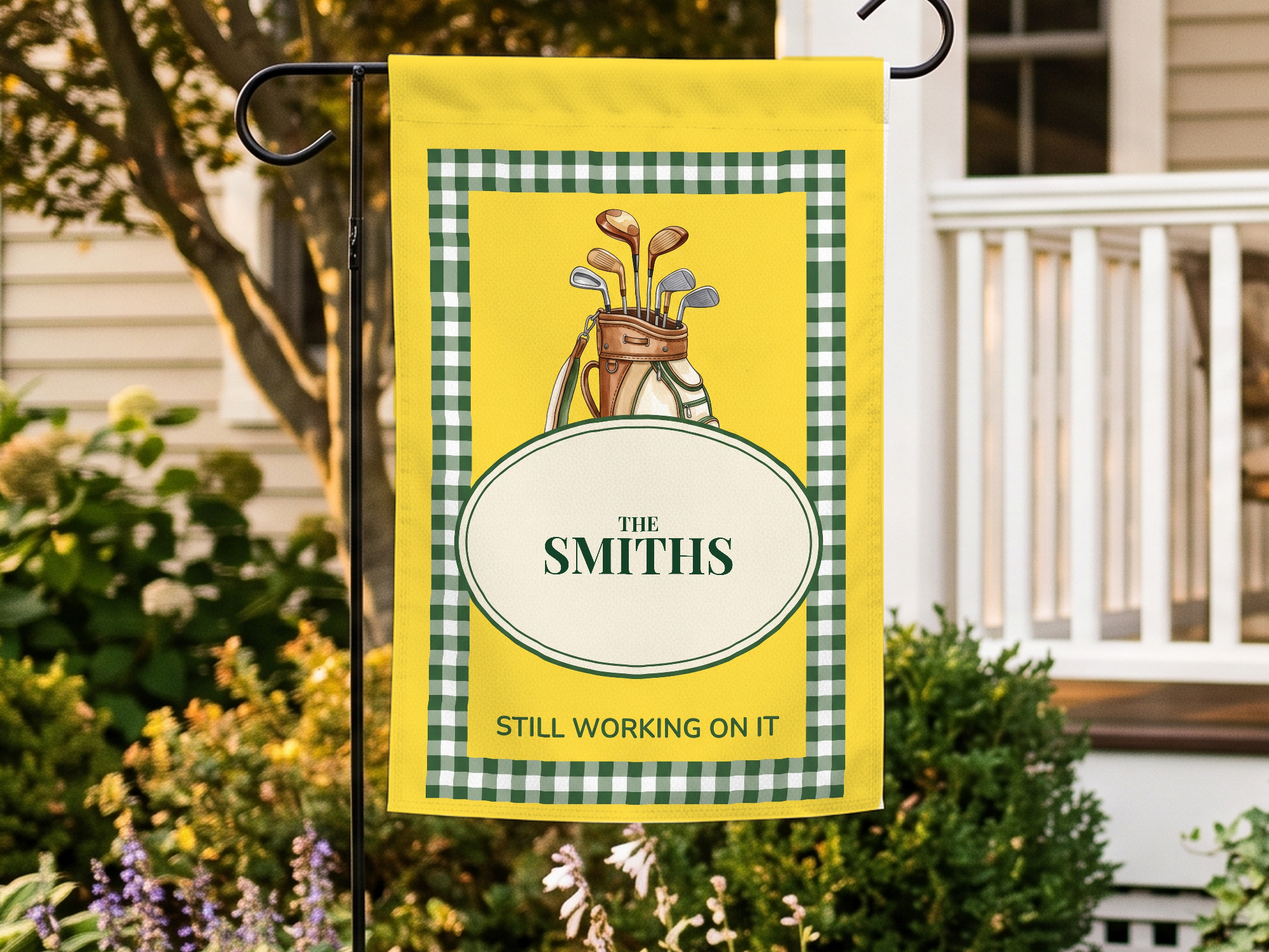
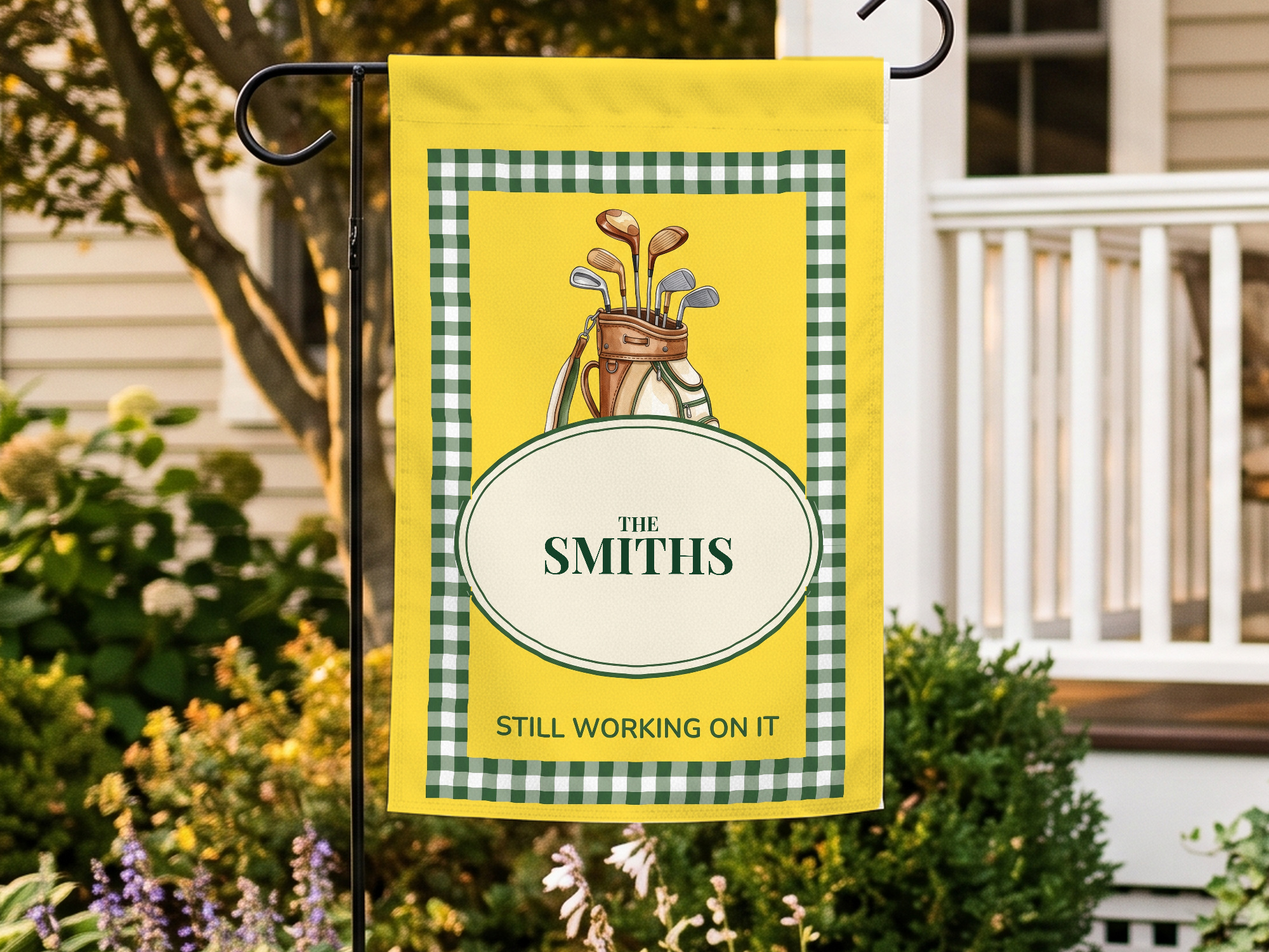
garden_flag: R01のギンガム柄の崩れを補修（本人指摘）
「上端から5分の1くらいで柄が崩れている」という指摘を実測で確認した。

崩れの内容（入稿3900x5700座標・左右の帯で同一）
  ・y 1605〜1831 の縞が高さ226px。他は97〜110pxで、ここだけ2.1倍
  ・周期が上側198px／下側213pxと違い、縞の位相も1本ずれていた

直し方
  枠が3色の平坦な塗り（セル内の標準偏差0.8〜1.9）であることを実測し、
    画素(x,y) = P_L(x) + t(y)*(P_D(x) - P_L(x))
  と分解。行の濃さ t(y) だけを一定周期で作り直した。
  列の構造と黄色地との境目のぼかしは原画のまま残る。

  上バー(y812-1110)と下バー(y5123-5427)は非改変。両端が縞の境目なので角は崩れない。
  補修範囲 y1110-5123 を39行×102.90pxに再構成（上バー99px・下バー106pxの中間）。

  名前オーバルは枠に重なっているため、形を推定せず実測で分離した。
  オーバルが届かない列で原画の t_old(y) を測り、それで再構成した枠との差から
  マスクを作成。左帯642行・右帯645行が保護され、左右でほぼ一致した。

検算
  縞の高さのばらつき ±115% → ±6%、異常な縞なし。
  帯の外・補修範囲の外で変化した画素はいずれも0。

R01の名入れ3種・モックアップ3枚・出品画像7枚を作り直した。

あわせて5案すべての枠を調査し、R09のタータンにも同種の崩れを確認した
（上バーは242/520の規則正しい繰り返しだが、縦方向は738/762の欠落がある）。
対応方針は docs/23 第5節に3案を整理。本人の判断待ち。

Claude-Session: https://claude.ai/code/session_017qrD34xpyvn533LRq15xnw

Changed region(s): [[0.62, 0.2453, 0.682, 0.736], [0.341, 0.2147, 0.372, 0.7667]]

diff --git a/garden_flag/tools/mockup/fix_r01.py b/garden_flag/tools/mockup/fix_r01.py
@@ -1,0 +1,83 @@
+# -*- coding: utf-8 -*-
+"""R01 のギンガム枠の横縞を作り直す。
+
+実測した崩れ（upload_r/_R01_before.png）:
+  ・y 1605〜1831 に高さ226pxの濃い縞が1本（他は97〜108px、約2.1倍）
+  ・上側の周期198px / 下側の周期213px。縞の位相も1本ずれている
+
+考え方:
+  枠は3色の平坦な塗り（セル内の標準偏差 0.8〜1.9）なので
+      画素(x,y) = P_L(x) + t(y)·( P_D(x) − P_L(x) )
+  と分解できる。P_D/P_L は濃い行・薄い行の横断面（実測）、t(y) は行の濃さ。
+  t(y) だけを一定周期に作り直せば、列の構造も黄色地との境目のぼかしも原画のまま残る。
+
+  名前用オーバルは枠に重なっている。形を推定せず、
+  「原画」と「原画自身の t_old(y) で再構成した枠」の差からマスクを作って保護する。
+  t_old(y) は、オーバルが絶対に届かない列 x 430〜520（実測: オーバルの左端は最小594）で測る。
+
+  上バー(y 812-1110)と下バー(y 5123-5427)は触らない。両端が縞の境目なので角はつながる。
+"""
+from PIL import Image
+import numpy as np
+from scipy import ndimage
+
+SRC="upload_r/_R01_before.png"
+DST="upload_r/R01_upload_3900x5700.png"
+# (帯の範囲, t(y)を測る列, オーバルが入ってくる向き)
+BANDS=[((415,728),(430,520),"right"), ((3172,3482),(3380,3465),"left")]
+Y0,Y1 = 1110, 5123
+N_ROWS = 39                 # 薄で始まり薄で終わる奇数（y=5123 から濃が始まるため）
+REF_D  = (2998,3086)
+REF_L  = (3106,3191)
+EDGE   = 3.0
+
+def tone_wave(y, y0, pitch, edge):
+    f=((y-y0)/pitch)%2.0; e=edge/pitch
+    return np.clip(np.clip((f-1.0)/e,0,1)-np.clip((f-2.0+e)/e,0,1),0,1)
+
+def main():
+    src=np.asarray(Image.open(SRC).convert("RGB")).astype(np.float32)
+    out=src.copy()
+    pitch=(Y1-Y0)/N_ROWS
+    print(f"補修 y {Y0}〜{Y1} ({Y1-Y0}px) → {N_ROWS}行 × {pitch:.2f}px")
+    yy=np.arange(Y0,Y1,dtype=np.float32)
+    t_new=tone_wave(yy,Y0,pitch,EDGE).astype(np.float32)
+
+    for (x0,x1),(px0,px1),side in BANDS:
+        PD=src[REF_D[0]:REF_D[1], x0:x1].mean(axis=0)
+        PL=src[REF_L[0]:REF_L[1], x0:x1].mean(axis=0)
+        lumD=float(PD[px0-x0:px1-x0].mean()); lumL=float(PL[px0-x0:px1-x0].mean())
+        # 原画の行の濃さ（オーバルの届かない列で実測）
+        t_old=np.clip((src[Y0:Y1,px0:px1].mean(axis=(1,2))-lumL)/(lumD-lumL),0,1).astype(np.float32)
+
+        G_old=PL[None,:,:]+t_old[:,None,None]*(PD-PL)[None,:,:]
+        G_new=PL[None,:,:]+t_new[:,None,None]*(PD-PL)[None,:,:]
+        dif=np.abs(src[Y0:Y1,x0:x1]-G_old).max(axis=2)
+        raw=dif>20
+        raw[:, :6]=False; raw[:, -6:]=False        # 帯と黄色地の境目の微差は拾わない
+        # 20px以上続く塊がある行＝オーバルが重なっている行
+        solid=ndimage.binary_opening(dif>25, np.ones((1,21)))
+        rows=solid.any(1)
+        idx=np.arange(x1-x0)[None,:]
+        MARGIN=4                                    # 輪郭のぼかし分だけ外へ広げる
+        if side=="right":
+            first=np.where(raw.any(1), np.argmax(raw,1)-MARGIN, x1-x0)
+            mask=(idx>=first[:,None]) & rows[:,None]
+        else:
+            last=np.where(raw.any(1), (x1-x0-1)-np.argmax(raw[:,::-1],1)+MARGIN, -1)
+            mask=(idx<=last[:,None]) & rows[:,None]
+        keep=ndimage.gaussian_filter(mask.astype(np.float32),2.0)
+        keep=np.clip(keep*1.8,0,1)[:,:,None]
+
+        seam=np.ones((Y1-Y0,1,1),np.float32); k=8
+        seam[:k,0,0]=np.linspace(0,1,k); seam[-k:,0,0]=np.linspace(1,0,k)
+        w=seam*(1.0-keep)
+        old=src[Y0:Y1,x0:x1]
+        out[Y0:Y1,x0:x1]=old*(1-w)+G_new*w
+        rows=int((mask.any(1)).sum())
+        print(f"  帯 x{x0}-{x1}: オーバル等を保護した行 {rows}行 "
+              f"(y {Y0+int(np.argmax(mask.any(1)))}〜{Y0+len(mask)-1-int(np.argmax(mask.any(1)[::-1]))})")
+    Image.fromarray(np.clip(out,0,255).astype(np.uint8)).save(DST, optimize=True)
+    print("保存:", DST)
+
+if __name__=="__main__": main()

diff --git a/garden_flag/tools/mockup/redo_r01.py b/garden_flag/tools/mockup/redo_r01.py
@@ -1,0 +1,30 @@
+# -*- coding: utf-8 -*-
+"""補修後の R01 から 名入れ3種 → モックアップ3枚 → 出品画像7枚 を作り直す"""
+import importlib, sys
+sys.argv=["x","SMITHS"]
+import make_name_flag_r as M
+for sur in ("SMITHS","MILLERS","ANDERSONS"):
+    a,b=M.render("R01",sur); print(f"  名入れ R01 {sur}: 名字{a}px THE{b}px", flush=True)
+from composite import composite
+import numpy as np
+OUT_W,OUT_H,FLAG,ANCH=2000,1500,0.80,0.46
+def fh(mp):
+    m=np.load(mp); iy=np.arange(m.shape[0]); cols=np.where(m.any(0))[0]
+    return float(np.median([iy[m[:,x]].max()-iy[m[:,x]].min() for x in cols]))
+for bg in ("background01","background02","background03"):
+    mp=f"mask_{bg}.npy"
+    composite(f"zin/{bg}.jpeg","named_r/R01_SMITHS_3900x5700.png",mp,
+              f"mock/R01_{bg[-2:]}.jpg", scale=OUT_H*FLAG/fh(mp), crop=(OUT_W,OUT_H,ANCH), verbose=False)
+    print(f"  モックアップ R01 x {bg}", flush=True)
+import listing_img as L
+d="listing/R01_still-working-on-it"
+import shutil, os
+os.makedirs(d, exist_ok=True)
+shutil.copy("mock/R01_03.jpg", f"{d}/1_main.jpg")
+L.img_personalize("R01",         f"{d}/2_personalize.jpg")
+shutil.copy("mock/R01_01.jpg",   f"{d}/3_scene.jpg")
+L.img_closeup("mock/R01_03.jpg", f"{d}/4_closeup.jpg","SOFT, FADE-RESISTANT FABRIC")
+L.img_size("R01",                f"{d}/5_size.jpg")
+L.img_double("R01",              f"{d}/6_double_sided.jpg")
+L.img_notice("R01",              f"{d}/7_flag_only.jpg")
+print("  出品画像7枚 完了", flush=True)

diff --git a/garden_flag/docs/23_R01の格子柄の補修.md b/garden_flag/docs/23_R01の格子柄の補修.md
@@ -1,0 +1,171 @@
+# 23. R01 の格子柄の補修（2026-09-23）
+
+本人の指摘：**「R01のチェック柄が、上端から5分の1くらいのところで崩れている」**
+
+実測したところ、指摘どおり崩れていた。**5件目の的中。**
+
+---
+
+## 1. 何が壊れていたか
+
+左右のギンガム帯の**横縞の高さ**を全区間測った（入稿データ 3900×5700 座標）。
+
+| 位置 | 縞の高さ |
+|---|---|
+| y 813〜1605（上側） | 97〜101px（周期 197〜199px） |
+| **y 1605〜1831** | **226px** ← 他の**2.1倍** |
+| y 1932〜5427（下側） | 106〜110px（周期 209〜215px） |
+
+崩れは3つある。
+
+1. **縞が1本、高さ226pxある。** 他は97〜110px。ここだけ2.1倍
+2. **周期が上下で違う。** 上が198px、下が213px（7.6%の差）
+3. **位相が1本ずれている。** 上の縞列をそのまま延長しても、下の縞列と合わない
+
+左帯と右帯で**まったく同じ位置**に出ていた（y 1605〜1831）。
+Gemini が生成した時点で入っていた欠陥で、こちらの加工が原因ではない。
+
+上端からの位置は、枠の上端(813)から数えて **17.2%**。本人の「5分の1くらい」と一致する。
+
+---
+
+## 2. どう直したか
+
+### 枠の構造を分解した
+
+枠は**3色の平坦な塗り**だった（セル内部の標準偏差 0.8〜1.9 = ほぼ単色）。
+
+| 部分 | 色 |
+|---|---|
+| 濃い列 × 濃い行 | (59, 98, 60) |
+| 濃い列 × 薄い行 ／ 薄い列 × 濃い行 | (157, 176, 151) |
+| 薄い列 × 薄い行 | (254, 254, 254) |
+
+つまり枠は次の式で書ける。
+
+```
+画素(x, y) = P_L(x) + t(y) × ( P_D(x) − P_L(x) )
+
+  P_D(x) : 濃い行の横断面（実測：y 2998〜3086 の平均）
+  P_L(x) : 薄い行の横断面（実測：y 3106〜3191 の平均）
+  t(y)   : その行の濃さ 0〜1
+```
+
+**t(y) だけを一定周期で作り直せば、柄は直り、
+列の構造も黄色地との境目のぼかしも原画のまま残る。**
+
+### 作り直す範囲と周期
+
+上バー(y 812〜1110)と下バー(y 5123〜5427)は**触らない**。
+両端がちょうど縞の境目なので、**角のつながりが崩れない**。
+
+作り直すのは **y 1110〜5123（4013px）**。
+
+- 上バーの最後が「濃」で終わるので、ここは**薄で始まる**必要がある
+- y 5123 から下バーの「濃」が始まるので、ここは**薄で終わる**必要がある
+- → 縞の本数は**奇数**。4013 ÷ 39本 = **1本あたり 102.90px**
+
+39本を選んだ理由：上バーの周期は99px、下バーは約106px。
+**102.9px はその中間**で、前後との段差が最も小さい。
+
+行の境目のぼかしは、原画の実測値（10%→90% が **3px**）に合わせた。
+
+### 名前用オーバルの保護
+
+オーバルは**枠に重なっている**（外リングの左端が x=597、帯の範囲は x 425〜716）。
+そのまま作り直すとオーバルの縁を消してしまう。
+
+形を推定せず、**実測で分離した**。
+
+1. オーバルが絶対に届かない列（x 430〜520。オーバルの左端は最小594）で、原画の t_old(y) を測る
+2. その t_old で「原画自身の枠」を再構成する
+3. 原画とその再構成の**差が大きいところ＝オーバル**
+4. 20px以上続く塊がある行だけをオーバルの行とみなす（境目の微差を拾わないため）
+5. その行では、オーバル側の端まで原画を残す
+
+結果、左帯 642行・右帯 645行（y 3296〜3975）が保護された。**左右でほぼ一致**しており、
+オーバルの重なり範囲と合っている。
+
+---
+
+## 3. 直った証拠
+
+| | 補修前 | 補修後 |
+|---|---|---|
+| 縞の本数（左帯） | 43本 | **45本** |
+| 縞の高さ 中央値 | 105px | 103px |
+| 縞の高さ 最小〜最大 | **97〜226px** | **97〜109px** |
+| **ばらつき** | **±115%** | **±6%** |
+| 異常な縞 | y1605 に226px | **なし** |
+
+右帯も同じ数値。残る±6%は「上バー99px / 中央102.9px / 下バー106px」の差で、
+**原画がもともと持っている揺れの範囲内**。
+
+変更が入った画素の範囲も確認した。
+
+- 帯の外（x 415-728 / 3172-3482 以外）で変わった画素：**0**
+- 補修範囲の外（y 1110-5123 以外）で変わった画素：**0**
+
+ゴルフバッグ・オーバル・文字・上下バーには一切手が入っていない。
+
+---
+
+## 4. 作り直したもの
+
+補修した入稿データから、下流をすべて作り直した。
+
+- 名入れ3種（SMITHS / MILLERS / ANDERSONS）
+- モックアップ3枚（`mockups/R01_*`）
+- 出品画像7枚（`listing/R01_still-working-on-it/`）
+
+補修スクリプトは `tools/mockup/fix_r01.py`。補修前の原画は保存していない
+（`upload_r/` は作業用スクラッチのため）。再現が必要なら Gemini の出力から再度実行する。
+
+---
+
+## 5. R09 にも同種の崩れがある（要判断）
+
+R01 を直すついでに5案すべての枠を調べた。
+
+| 案 | 枠 | 判定 |
+|---|---|---|
+| R01 | ギンガム | **崩れていた → 補修済み** |
+| R02 | 無地の緑 | 繰り返し柄なし。問題なし |
+| R05 | 四隅の花 | 繰り返し柄なし。問題なし |
+| **R09** | **タータン** | **崩れている（下記）** |
+| R11 | 細い金の罫線 | 繰り返し柄なし。問題なし |
+
+### R09 の実測
+
+**上バーの横方向**（＝正しいセット）
+
+```
+242 / 520 / 243 / 519 / 240 / 522 / 239   ← 242と520の規則正しい繰り返し
+```
+
+**左右の帯の縦方向**
+
+```
+211 / 496 / 186 / 252 / 408 / 240 / 539 / 207 / 738 / 762 / 207
+                                             ^^^^^^^^^^^
+                              242や520ではない。緑ブロックが2つ欠落している
+```
+
+**下バーの横方向**
+
+```
+512 / 173 / 410 / 500 / 425 / 176 / 470   ← 上バーの 242/520 と合っていない
+```
+
+左帯と右帯は互いに一致している（952/952, 1163/1163, 1659/1654 …）ので、
+**左右がずれているのではなく、縦方向のセットそのものが上バーと違う。**
+
+### 直し方の選択肢
+
+| 案 | 内容 | 手間 | リスク |
+|---|---|---|---|
+| **A** | 欠落している緑ブロック2つ（y≈3733, y≈4471）を、既存のブロックを複製して埋める | 小 | 斜めの綾織りの線がずれる可能性 |
+| **B** | 上バーの正しいセット 242/520 を縦方向にも適用して、帯を全面的に作り直す | 大 | タータンは3色以上あり、R01 の2色分解が使えない |
+| **C** | Gemini で R09 を生成し直す | 小（本人作業） | 別の欠陥が出る可能性。名入れ帯の再検出が必要 |
+
+**R01 より目立ちにくいが、同じ種類の欠陥。判断を仰ぐ。**

diff --git a/CLAUDE.md b/CLAUDE.md
@@ -14,7 +14,10 @@
 - **パスワード入力・支払い・OAuth許可・金融口座の操作は必ず本人。** こちらは代行しない。
   公開・投稿・設定変更も、実行前に必ず確認を取って止まる
 - **デザインの違和感を鋭く指摘してくる。** 「なんとなく変」ではなく**実測で白黒つける**と喜ばれる。
-  実績として、本人が違和感を訴えた4件は4件とも本当に破綻していた。**軽く扱わないこと**
+  実績として、本人が違和感を訴えた**5件は5件とも本当に破綻していた**（最新: R01のギンガム柄。
+  `garden_flag/docs/23_R01の格子柄の補修.md`）。**軽く扱わないこと**
+- **生成AIの出力は、繰り返し柄が途中で壊れていることがある。** 目視で気づく前に
+  **周期を数値で測る**こと。R01は縞1本だけが2.1倍、R09はタータンのセットが縦横で不一致だった
 - 二度手間をかけたときは**原因を明示して簡潔に謝る**。長い自己批判は求められていない
 
 ## 作業スタイル
@@ -78,9 +81,10 @@
 |---|---|
 | デザイン5案・入稿データ | 完成 |
 | 自前モックアップ15枚 | 完成（`garden_flag/mockups/`） |
-| 出品画像 35枚（7枚×5商品） | 完成（`garden_flag/listing/`） |
+| 出品画像 35枚（7枚×5商品） | 完成（`garden_flag/listing/`）。R01は柄の補修後に作り直し済み |
 | タイトル・タグ・説明文 | 完成（`docs/21_出品文言.md`） |
 | **広告予算 $90（$3/日 × 30日）** | **本人が決定済み（2026-09-19）** |
+| **R09のタータン柄の崩れ** | **未対応。本人の判断待ち（`docs/23` 第5節）** |
 | **公開** | **未。手順は `docs/22_公開手順.md`** |
 
 **次にこのリポジトリを開いたら、まず `docs/22_公開手順.md` を見ること。**
